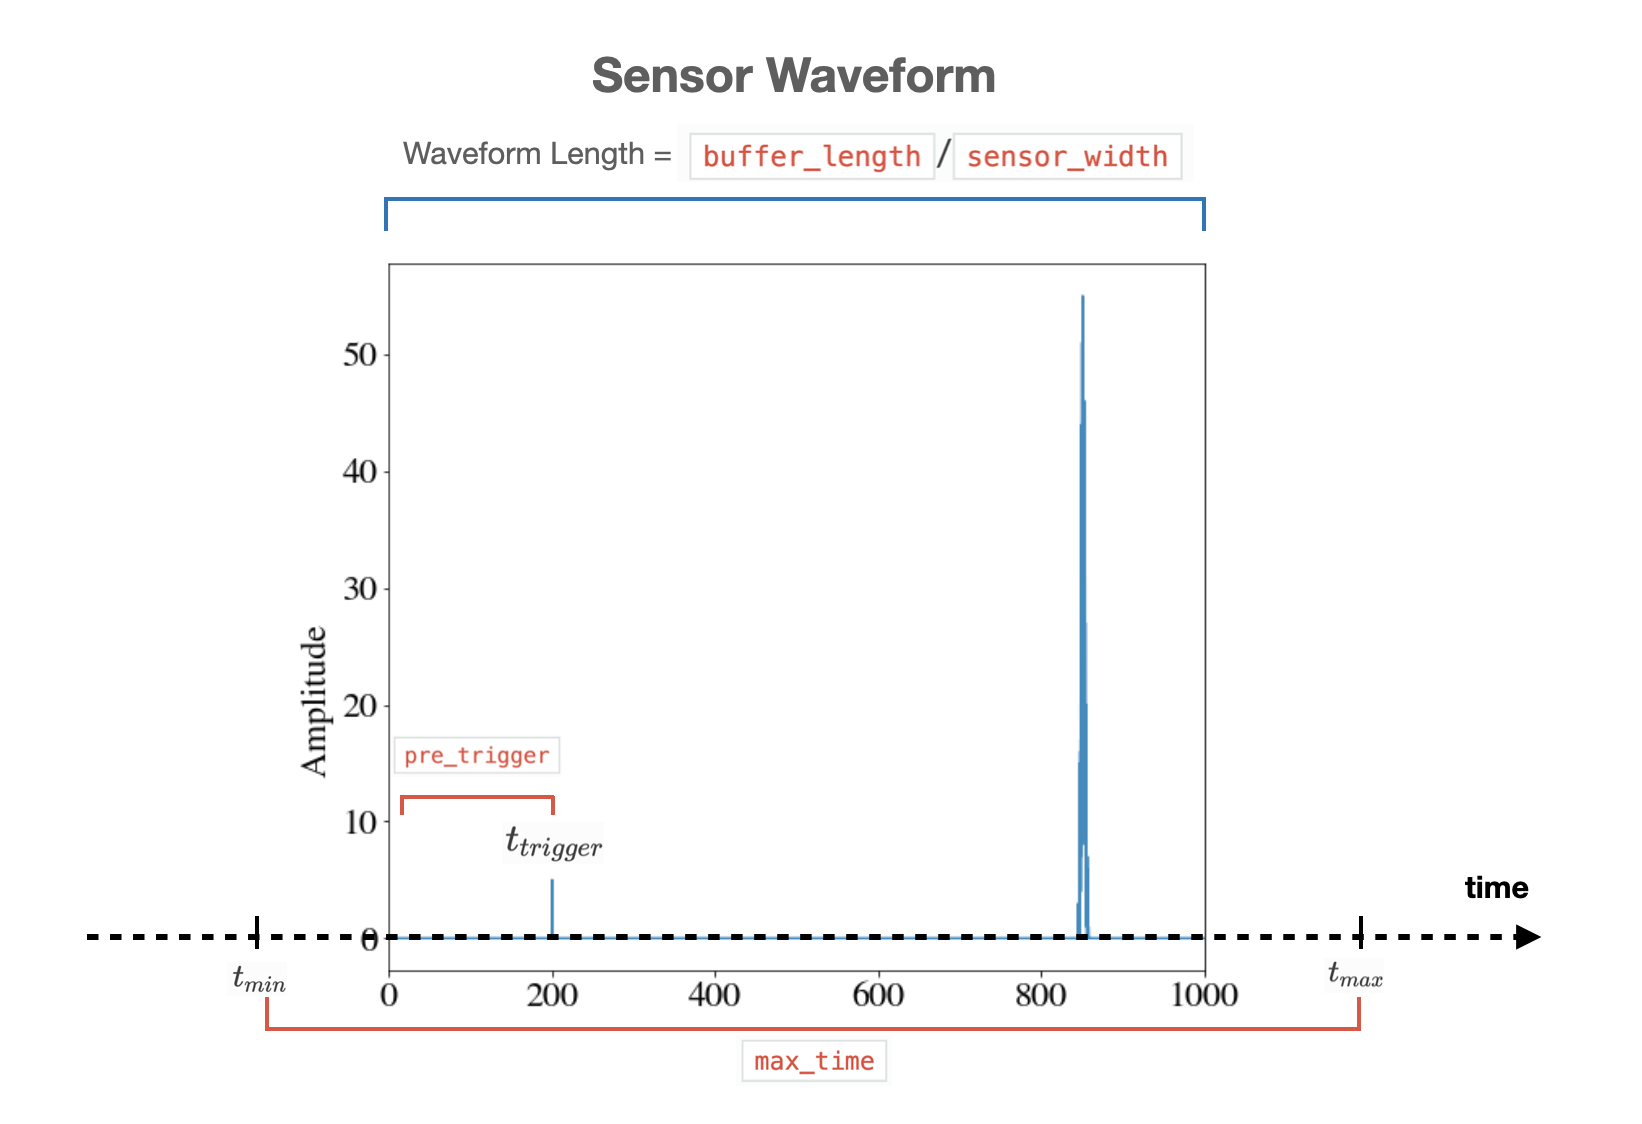
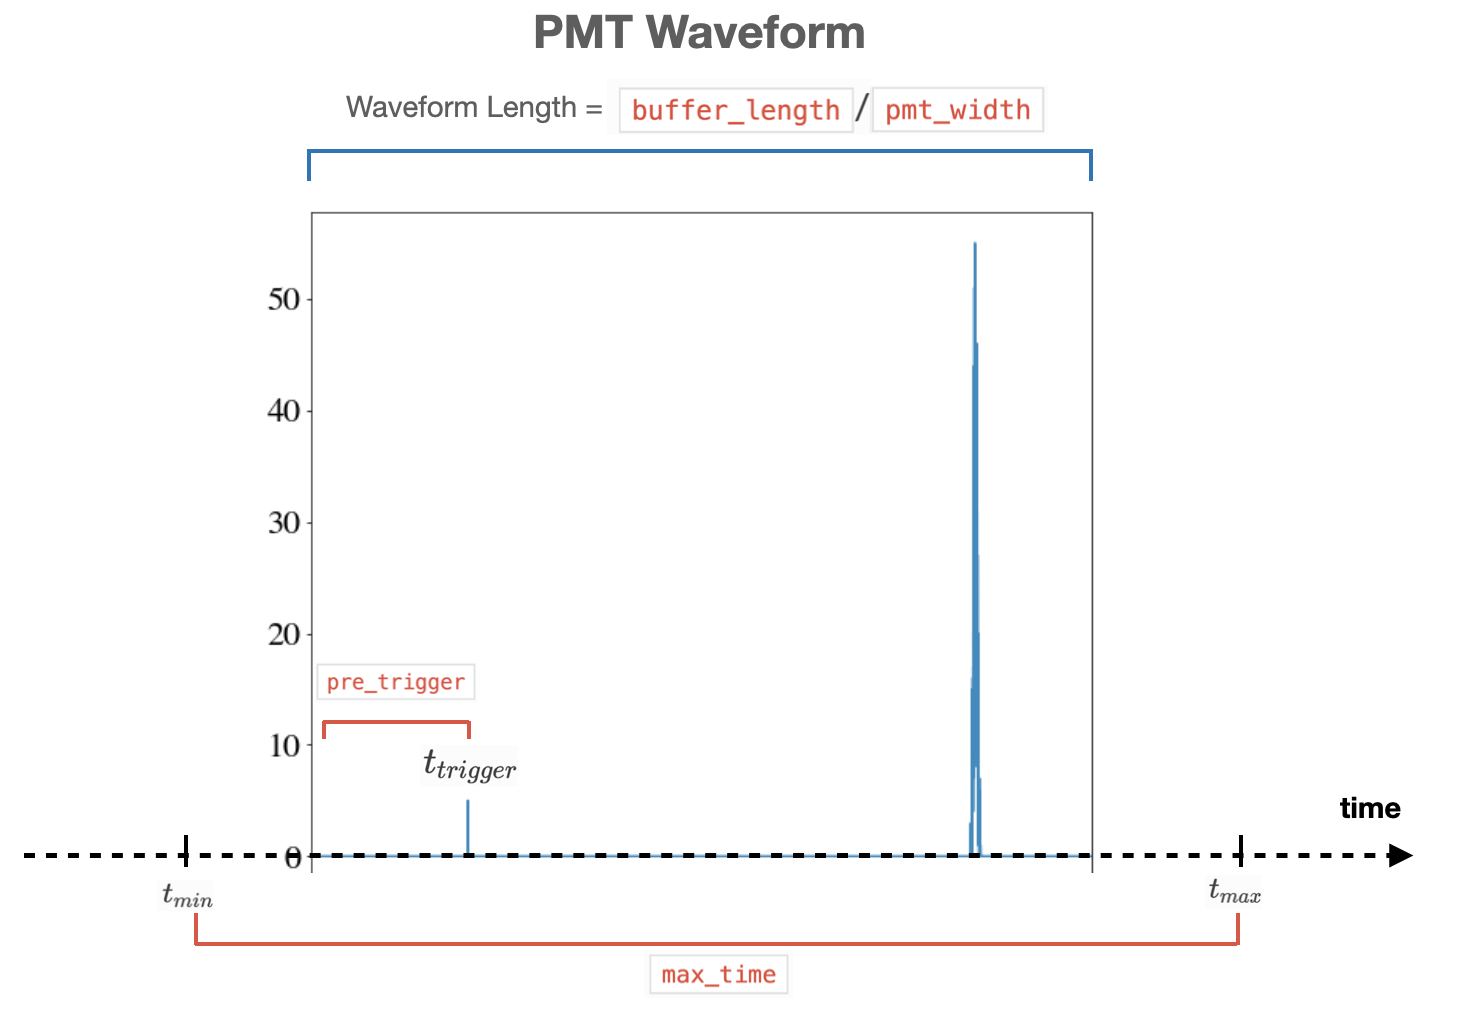
Add comments, rephrasing and some picture for better explanation

diff --git a/docs/source/buffy.rst b/docs/source/buffy.rst
@@ -1,18 +1,19 @@
 Buffy
 ==========
 
-*sorts MC sensors info into buffers, slays vampires, etc*
+*Sorts MC sensors info into buffers, slays vampires, etc*
 
 Full simulations generate sensors (PMTs and SiPMs) response,
 including the time and the detected charge of a specific signal. However, this sensor
-information does not have the waveform format obtained from data taking.
+information does not have the waveform format obtained from the detector.
 *Buffy* takes nexus sensors information, and sorts them into *true waveforms* (**TWF**).
 **TWF**\ s represent the signal amplitude of a given sensor without any type of
-distortion or effect, within a certain time interval and given the sensor sampling time.
+distortion or effect from the electronics, within a certain time interval and given the sensor sampling time.
 This type of time ordering of the sensor signal in a data-like format is what is called *bufferisation*.
-**TWF**\ s generated from *Buffy* can be transformed into *raw waveforms* **RWF**\ s with :doc:`diomira`.
-For detector geometries without sensor electronics, **TWF**\ s can be transformed directly into **PMap**\ s
-with :doc:`hypathia`.
+**TWF**\ s generated from *Buffy* can be transformed into *raw waveforms* **RWF**\ s (i.e. with effects
+from the electronics) with :doc:`diomira`. For detector geometries without sensor electronics, a simplified
+electronics modeling can be applied with :doc:`hypathia` to transform **TWF**\ s directly into **PMap**\ s.
+
 
 .. _Buffy input:
 
@@ -30,9 +31,9 @@ Output
 
  * ``/Run/runInfo``: run info table
  * ``/Run/events``: event info table
- * ``/Run/eventMap``: event and nexus event for each index
- * ``/RD/pmtrd/``: time ordered signal amplitude of the PMTs in true photoelectrons (PMT buffers). array: number of events, number of PMTs, length of PMT waveform (:math:`\mu`\ s).
- * ``/RD/sipmrd/``: time ordered signal amplitude of the SiPMs in true photoelectrons (SiPM buffers). array: number of events, number of SiPMs, length of SiPM waveform (:math:`\mu`\ s).
+ * ``/Run/eventMap``: table that connects event id and nexus event numbering
+ * ``/RD/pmtrd/``: time ordered signal amplitude of the PMTs in true photoelectrons (PMT buffers). array with shape: (number of events, number of PMTs, length of PMT waveform)
+ * ``/RD/sipmrd/``: time ordered signal amplitude of the SiPMs in true photoelectrons (SiPM buffers). array with shape: (number of events, number of SiPMs, length of SiPM waveform).
 
 .. _Buffy config:
 
@@ -51,19 +52,19 @@ Besides the :ref:`Common arguments to every city`, *Buffy* has the following arg
 
    * - ``max_time``
      - ``int``
-     - Maximal length of the event that will be taken into account starting from the first detected signal. All signals after that are lost. Must be greater than ``buffer_length``. If not, raises a warning and set ``max_time`` == ``buffer_length``
+     - Maximum duration of the event that will be taken into account starting from the first detected signal. All signals after that are lost. Must be greater than ``buffer_length``. If not, raises a warning and set ``max_time`` == ``buffer_length``
 
    * - ``buffer_length``
      - ``float``
-     - Configured buffer length in :math:`\mu`\ s.
+     - Configured buffer length in :math:`\mu s`.
 
    * - ``pre_trigger``
      - ``float``
-     - Time in buffer before identified signal in :math:`\mu`\ s.
+     - Time in buffer before identified signal in :math:`\mu s`.
 
    * - ``trigger_threshold``
      - ``int``
-     - Trigger threshold for selection in pes.
+     - Trigger threshold for selection in :math:`pe`\ s.
 
 
 .. _Buffy workflow:
@@ -75,7 +76,9 @@ For full simulations, NEXUS ``/MC/sns_response`` table stores for each event (``
  .. image:: images/buffy/MC_sns_response_table.png
    :width: 300
 
-This type of tables do not have the same shape that the waveforms collected when data taken, and in addition they only provide the information from the sensors and time bins when some charge is detected. Buffy takes this information (``event_id``, ``sensor_id`` and ``time_bin``), and transforms it into the waveform shape of the **TWF** expected for each type of sensor: ``pmtrd`` and ``sipmtrd`` (PMTs and SiPMs respectively) based on the *bufferisation* parameters provided.
+More details about nexus output can be found in its `Github Wiki <https://github.com/next-exp/nexus/wiki/Output-format>`_ . This type of tables do not have the same shape that the waveforms collected when data taken,
+and in addition they only provide the information from the sensors and time bins when some charge is detected. Buffy takes this information (``event_id``, ``sensor_id`` and ``time_bin``), and transforms it into the waveform
+shape of the **TWF** expected for each type of sensor: ``pmtrd`` and ``sipmtrd`` (PMTs and SiPMs respectively) based on the *bufferisation* parameters provided.
 
 .. image:: images/buffy/pmt_wft.png
   :width: 350
@@ -98,20 +101,32 @@ This process is separated in the following tasks in the city:
 Histogram creation
 ::::::::::::::::::
 
-Takes NEXUS information about sensor hits (``/MC/sns_response``). Checks time stamp of an event according to the sensors response, and defines a histogram between [:math:`t_{min}`, :math:`t_{max}`], being:
+As it was highlighted earlier, NEXUS information about sensor hits (``/MC/sns_response``) comes binned in time based on when a sensor sees some energy deposition.
+This means that ``time_bin`` column numbers are increasing for a given event, but they can have gaps, since the time bins where no charge is detected
+don't appear in the table. This initial part of the city, checks the time stamp of an event according to the sensors response, and defines histograms of charge distribution
+between [:math:`t_{min}`, :math:`t_{max}`], being:
 
 • :math:`t_{min}`: the time stamp of the first charge deposition of the event,
 • :math:`t_{max}`: defined considering that ``max_time`` =  :math:`t_{max}` - :math:`t_{min}`.
 
-Once these histograms are defined, they are sampled according to the binning of each sensor (``pmt_width`` and ``sipm_width``). Sampling widths are included in the simulation parameters (``/MC/info``), and depends on the type of sensor and detector. Normally corresponds to 25 :math:`\mu`\ s for PMTs and and 1 :math:`\mu`\ s for SiPMs.
+.. image:: images/buffy/histogram_creation.png
+  :width: 800
+
+When these histograms (one for PMTs and another for SiPMs) are defined, they are sampled according to the binning of each sensor (``pmt_width`` and ``sipm_width``).
+Since nexus only stores ``time_bin`` for sensors that see some charge, it also effectively pads with zeros in between separate signals.ads
+Sampling widths are included in the simulation parameters (``/MC/info``), and depends on the type of sensor and detector. Normally corresponds to 25 :math:`ns` for PMTs and and 1 :math:`\mu s`\ s for SiPMs.
 
 .. _Signal-Search:
 
 Signal Search
 ::::::::::::::::::
 
-Charge is distributed in previously defined histograms. The code searches for signal-like charge according to a given threshold (``trigger_threshold``). Simple threshold value is applied on binned charge. Once it is found, it defines a trigger time, :math:`t_{trigger}`. PMT/SiPM sum is ordered by the given buffer length (``buffer_length``) considering :math:`t_{trigger}` and the ``pre_trigger`` configuration. Waveforms are therefore defined for each sensor in a specific length based on ``buffer_length``/``sensor_width``.
+Once charge is distributed in previously defined histograms, the code searches for signal-like events.
+It takes PMT sum histogram and looks for the first value of the binned charge above a certain threshold (``trigger_threshold``), and defines the trigger time, :math:`t_{trigger}`.
+Waveforms are therefore defined for PMTs:
 
+• shifting the times of the charge histogram such that the first value over threshold (:math:`t_{trigger}`) falls at the time defined as ``pre_trigger``;
+• considering a specific length based on ``buffer_length``/``pmt_width``.
 
 .. image:: images/buffy/bufferisation.png
   :width: 800
@@ -125,4 +140,5 @@ Charge is distributed in previously defined histograms. The code searches for si
 Synchronisation and trigger separation
 :::::::::::::::::::::::::::::::::::::::
 
-Since the ``sensor_width`` is different for each sensor, it is necessary to align and synchronises the clocks between SiPMs and PMTs. Waveforms are sliced then according to binning (``pmt_width`` and ``sipm_width``), trigger time and configured pre-trigger (``pre_trigger``). In addition, it pads with zeros where it is necessary: arrays with zeros where there is no recorder pes in nexus (in the other sensors). Arrays with zeros where no signal and nexus recorded pes otherwise. If more than one trigger is found separated from each other by more than a buffer width, the nexus event can be split into multiple data-like triggers.
+Since the sensor width is different for PMTs and SiPMs, it is necessary to align and synchronise the clocks between their waveforms. Waveforms are then sliced then according to binning (``pmt_width`` and ``sipm_width``), trigger time and configured pre-trigger (``pre_trigger``).
+If more than one trigger is found separated from each other by more than a buffer width, the nexus event can be split into multiple data-like triggers.
